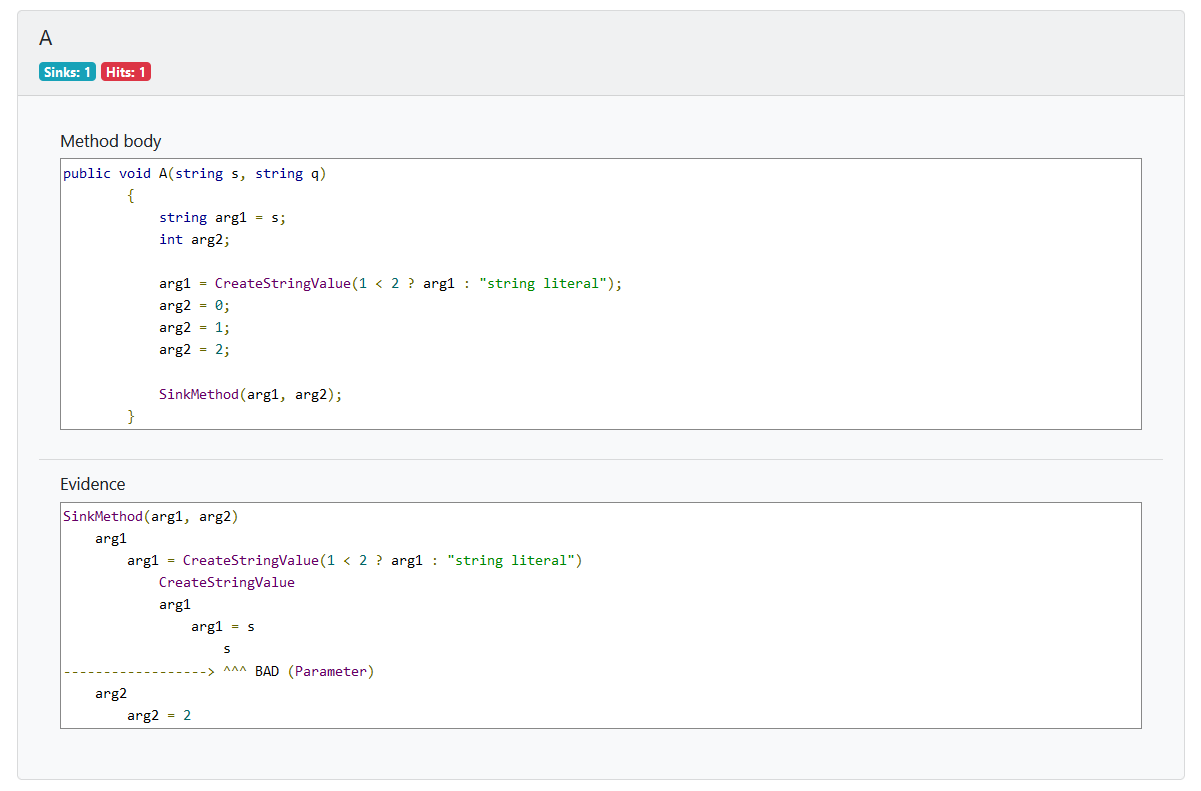
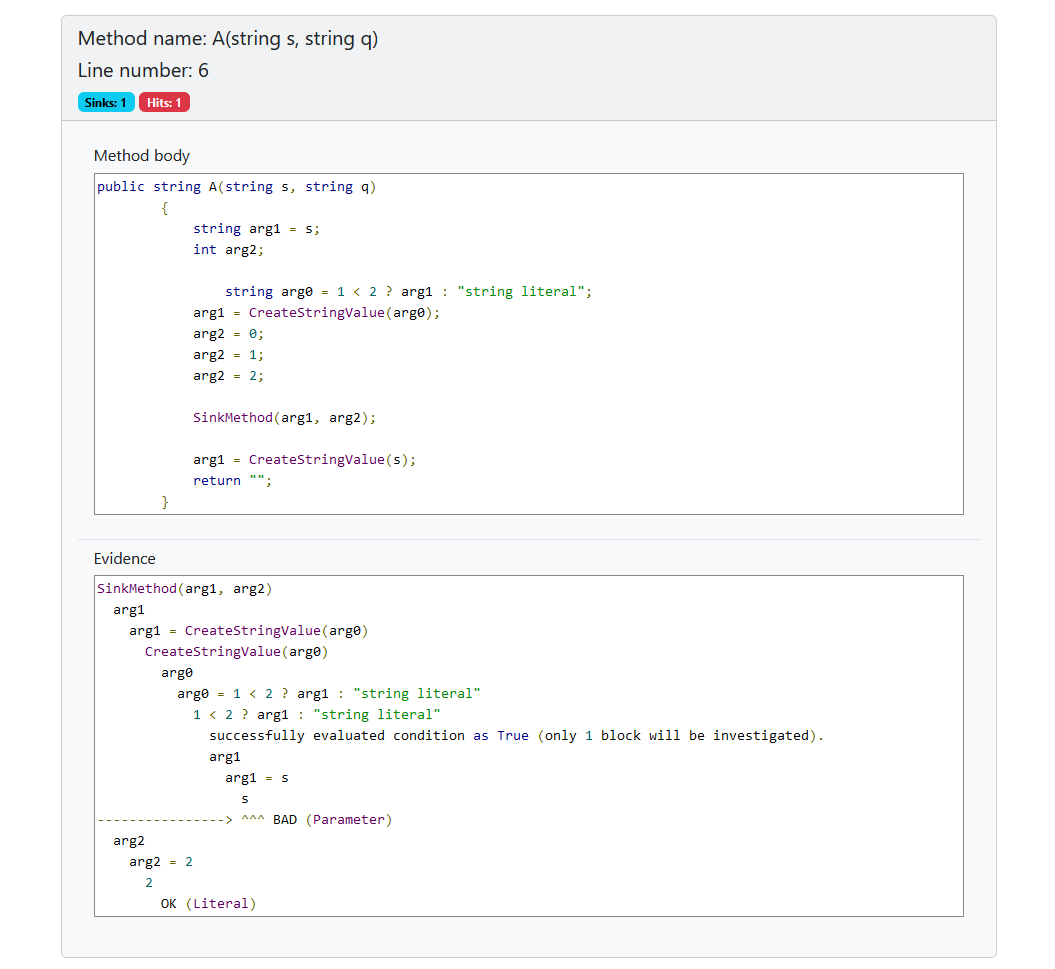
update readme files and images

diff --git a/Documentation/initial-setup.md b/Documentation/initial-setup.md
@@ -28,9 +28,9 @@ dotnet build
 ```
 in command line.
 
-## Exemplary usage
+### Exemplary usage
 ``` shell
-.\SQLInjectionAnalyzer.exe --path=.\source\folder\ --scope-of-analysis=Interprocedural --config=.\config\folder\config.json --result=.\result\path\ --exclude-paths=TEST,E2E --write-console
+.\SQLInjectionAnalyzer.exe --path=.\source\folder\ --scope-of-analysis=InterproceduralCSProj --config=.\config\folder\config.json --result=.\result\path\ --exclude-paths=TEST,E2E --write-console
 ```
 
 ### Arguments
@@ -47,20 +47,30 @@ in command line.
 ### About arguments
 ```
 --path:
-     any valid path to the folder which should be analysed
+     any valid path to the folder which should be analysed.
 --scope-of-analysis:
-     Simple                         reads *.cs files separately, without compiling .csproj files, without performing interprocedural analysis, every block of code is considered as reachable (very fast but very imprecise)
-     OneMethod                      compiles *.csproj files, without performing interprocedural analysis
-     Interprocedural                compiles *.csproj files, performs n-level interprocedural analysis, every block of code is considered as reachable
-     InterproceduralReachability    compiles *.csproj files, performs n-level interprocedural analysis, able to decide trivial problems when solving reachability problems (requires the most resources, the most precise type of analysis)
+     OneMethodSyntaxTree           Reads C# (*.cs) files separately and investigates Syntax Trees parsed from the separate C# files,
+                                   without compiling .csproj files, without performing interprocedural analysis, every block of code is
+                                   considered as reachable (very fast but very inacurate).
+     OneMethodCSProj               Compiles *.csproj files, without performing interprocedural analysis. Every block of code is considered
+                                   as reachable. Uses the same rules as OneMethodSyntaxTree, therefore provides the same results. This ScopeOfAnalysis
+                                   serves only to investigate how much time is needed for compilation of all .csproj files.
+     InterproceduralCSProj         Compiles all C# project (*.csproj) files, performs n-level interprocedural analysis (where number n is defined
+                                   in config.json file) for each project separately, able to decide trivial problems when solving reachability problems.
+     InterproceduralSolution       Opens all C# solution (*.sln) files, performs n-level interprocedural analysis (where number n is
+                                   defined in config.json file) for each solution separately, able to decide trivial problems when solving
+                                   reachability problems.
+     InterproceduralOneSolution    Creates 1 universal C# solution (*.sln) by compiling all C# project files (*.csproj) and referrencing
+                                   them in the solution, performs n-level interprocedural analysis (where number n is defined in config.json file)
+                                   at 1 universaly created solution, able to decide trivial problems when solving reachability problems.
 --config:
-     any valid path to valid config.json (configures rules for taint propagation)
+     any valid path to valid config.json (configures rules for taint variables propagation).
 --result:
-     any valid path to the folder where diagnostic-result-files should be exported
+     any valid path to the folder where diagnostic-result-files should be exported.
 --exclude-paths:
-     comma delimited list of sub-paths to be skipped during analysis (for example tests)
+     comma delimited list of sub-paths to be skipped during analysis (for example tests).
 --write-console:
-     informs about results in real-time
+     informs about results in real-time.
 ```
 ## Configuration
 The file which specifies configuration rules for solving taint propagation problems is expected to have the following format.

diff --git a/UnitTests/README.md b/UnitTests/README.md
@@ -11,7 +11,7 @@ whether they are fit for use."[^1]
 ## How to add your own Unit Tests
 After creating your own implementation of an analyzer, or after modifying the existing
 functionality, please make sure the additional or changed functionality is
-fully covered by `unit tests`. To inspire yourself, look at [SimpleAnalyzerTest.cs](SimpleAnalyzerTest.cs)
+fully covered by `unit tests`. To inspire yourself, look at [OneMethodSyntaxTreeTest.cs](OneMethodSyntaxTreeAnalyzerTest.cs)
 which covers the functionality of the implementation of the analyzer for Simple scope of analysis.
 Another examples are [ConfigFileReaderTest.cs](ConfigFileReaderTest.cs) or [InputReaderTest.cs](InputReaderTest.cs)
 which test [ConfigFileReader](../InputService/ConfigFileReader.cs) and [InputReader](../InputService/InputReader.cs)
@@ -56,6 +56,6 @@ The good practice is to always attach the evidence/output of the test into Test 
 - `TaintPropagationRulesExamples/` -  contains a creator of taint propagation rules used by unit tests.
 - `AnalyzerTestHelper.cs` - contains helpful methods for creating test scenarios, and comparing diagnostic files. 
 - `ConfigFileReaderTest.cs` - tests for config file reader.
-- `SimpleAnalyzerTest.cs` - tests for simple analyzer.
+- `OneMethodSyntaxTreeTest.cs` - tests for OneMethodSyntaxTree analyzer.
 
 [^1]: https://en.wikipedia.org/wiki/Unit_testing

diff --git a/OutputService/README.md b/OutputService/README.md
@@ -3,13 +3,12 @@
 Generated results are adjustable by differentiating which result template to use according to the Scope of the analysis.
 
 ## For example
-### Interprocedural Scope
-Interprocedural scope contains namely n-level BFS trees for each vulnerable method. Also, evidence is interprocedural.
+### InterproceduralCSProj Scope
+InterproceduralCSProj scope contains namely n-level BFS trees for each vulnerable method. Also, evidence is interprocedural.
 ![img.png](DocumentationImages/img.png)
 ![img_1.png](DocumentationImages/img_1.png)
-![img_2.png](DocumentationImages/img_2.png)
 
-### Simple Scope
-In comparison to the previous result, the Simple scope does not contain information about .csproj files nor BFS trees. Everything here is simplified.
+### OneMethodSyntaxTree Scope
+In comparison to the previous result, the OneMethodSyntaxTree scope does not contain information about .csproj files nor BFS trees. Everything here is simplified.
 ![img_3.png](DocumentationImages/img_3.png)
 ![img_4.png](DocumentationImages/img_4.png)

diff --git a/SQLInjectionAnalyzer/Analyzers/README.md b/SQLInjectionAnalyzer/Analyzers/README.md
@@ -5,6 +5,7 @@ The folder which contains all analyzer implementations.
 - [InterproceduralCSProjAnalyzer](InterproceduralCSProjAnalyzer/InterproceduralCSProjAnalyzer.cs).
 - [OneMethodCSProjAnalyzer](OneMethodCSProjAnalyzer/OneMethodCSProjAnalyzer.cs).
 - [OneMethodSyntaxTreeAnalyzer](OneMethodSyntaxTreeAnalyzer/OneMethodSyntaxTreeAnalyzer.cs).
+- [TableOfRules](TableOfRules.cs) - rules for tracking taint propagation variables.
 
 ## Table of available analyzers
 | Analyzer                      | Description                                                                                                                                                                                                                                                                                                                |

diff --git a/Documentation/source-areas.md b/Documentation/source-areas.md
@@ -16,19 +16,19 @@ Consider the following config.json (namely the sourceAreas):
     "sourceAreas": [
         {
             "label": "WEB",
-            "path": "My\\Folder\\Web\\"
+            "path": "InterproceduralCodeToBeAnalysed\\Web\\"
         },
         {
             "label": "DATABASE",
-            "path": "My\\Folder\\Database\\"
+            "path": "InterproceduralCodeToBeAnalysed\\Database\\"
         },
         {
             "label": "SRC",
-            "path": "Another\\Folder\\Src\\"
+            "path": "InterproceduralCodeToBeAnalysed\\Src\\"
         },
         {
             "label": "TOOLS",
-            "path": "Yet\\Another\\Folder\\Tools\\"
+            "path": "InterproceduralCodeToBeAnalysed\\Tools\\"
         }
     ],
     "sinkMethods": [

diff --git a/README.md b/README.md
@@ -20,6 +20,7 @@ Primarily, this project was created for the purpose of [my](https://github.com/K
 - [ExceptionService](ExceptionService/README.md) - custom exception types and exception writer used across entire repository.
 - [InputService](InputService/README.md) - methods for reading, validating, and processing input from console and from config files.
 - [OutputService](OutputService/README.md) - multiple adjustable outputs based on the scope of the analysis.
+- `RazorOutput` - .cshtml templates of final reports
 
 ## High level flow chart
 Here is a diagrammatic representation of the entire process of the analysis from `Start` to `End`.
